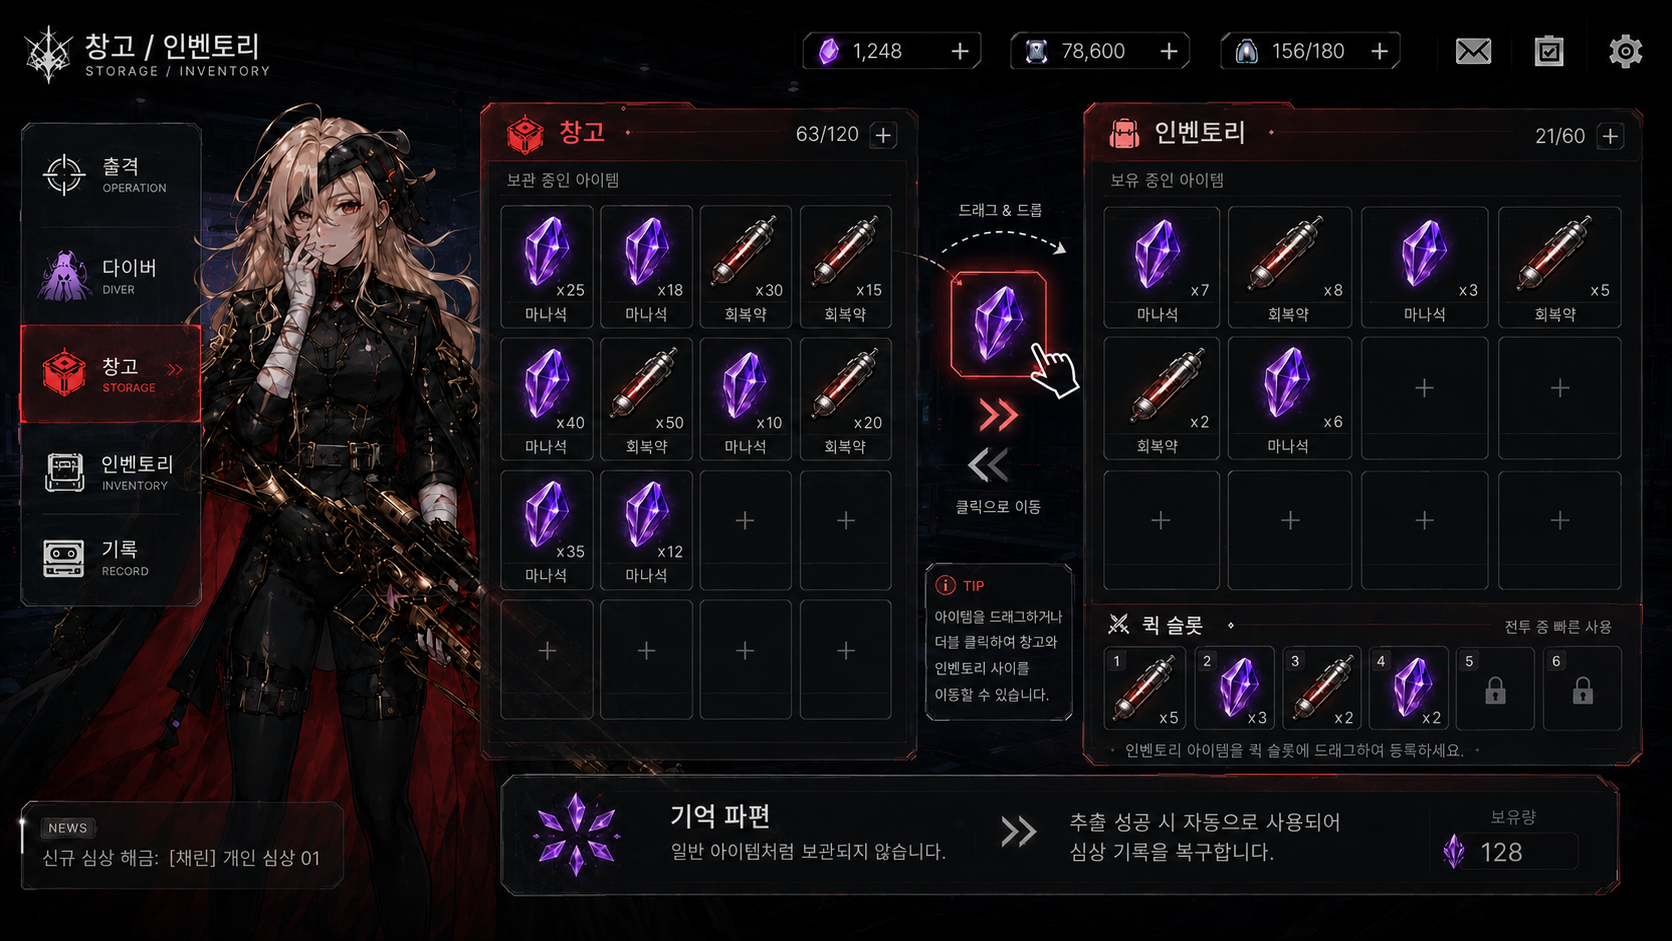
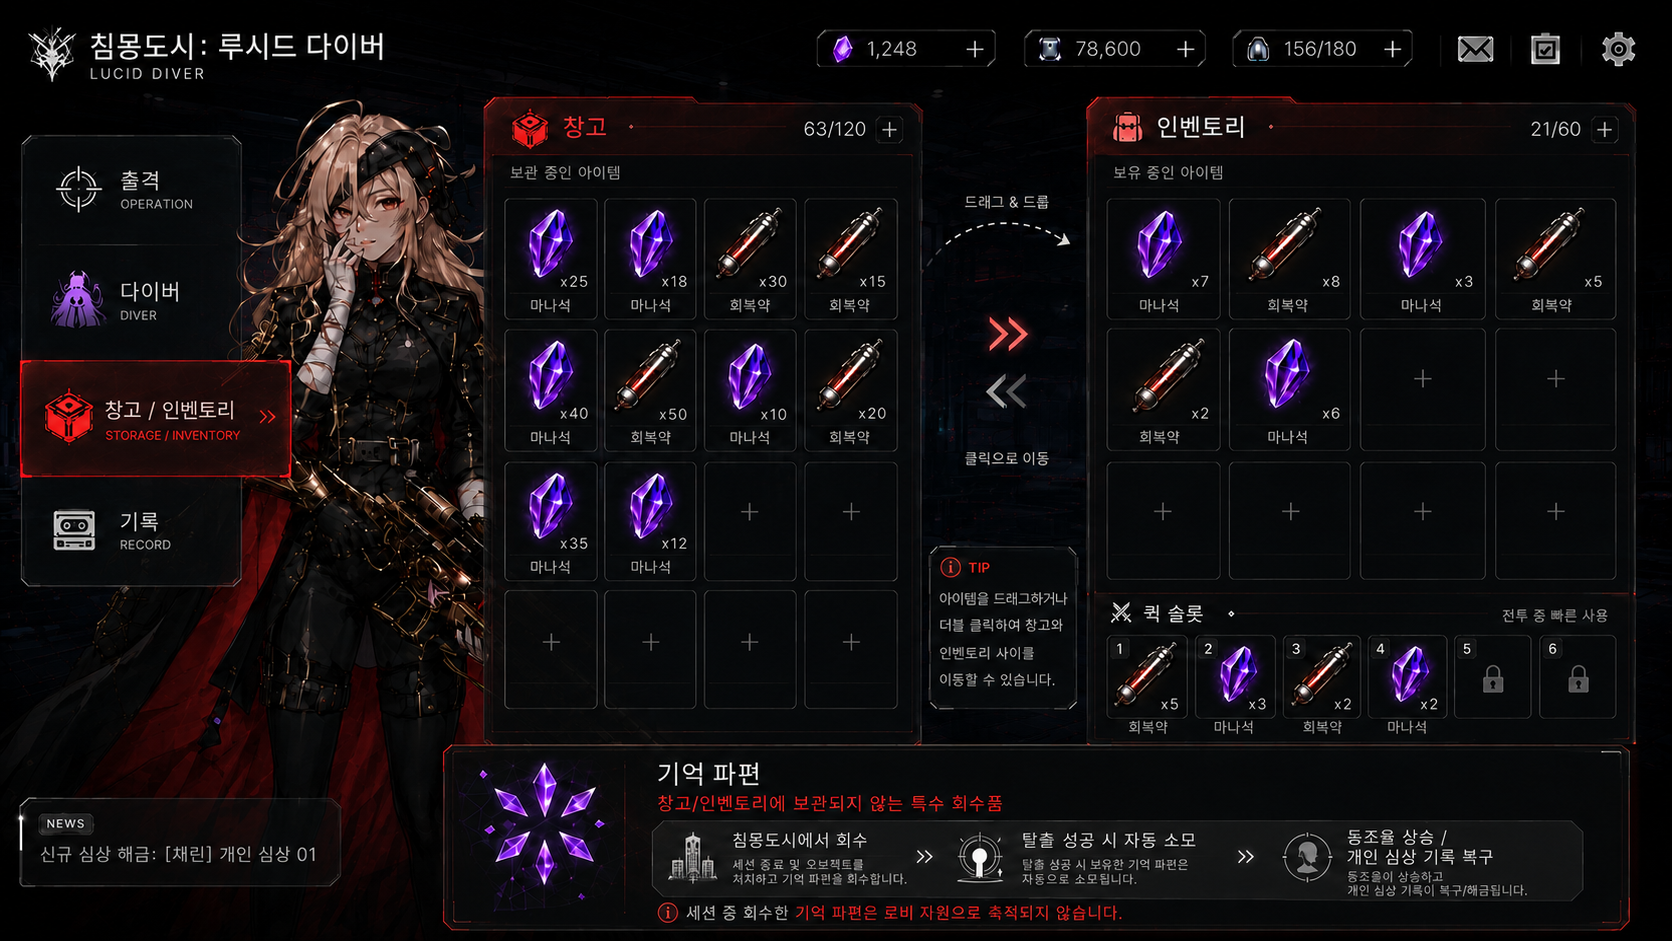
로비_허브UI플로우명세 이미지 및 인벤토리/창고 세부사항 업데이트

diff --git a/01.기획_문서/검수전/서브컬처_기획/프로토타입_로비_허브_UI_플로우_명세.md b/01.기획_문서/검수전/서브컬처_기획/프로토타입_로비_허브_UI_플로우_명세.md
@@ -13,7 +13,7 @@
 ## 2. 로비 허브의 역할
 프로토타입 내에서 로비 허브는 다음 세 가지의 최소 목적을 달성하기 위해 필요합니다.
 - **출격 허브**: 플레이어가 침몽도시 위험 세션에 진입하는 입구 역할을 수행합니다.
-- **서브컬처 감상 허브**: 캐릭터의 동조율 단계를 파악하고, 해금된 개인 심상 기록을 감상하며, 결과에 따른 대사 변화를 통해 캐릭터와의 정서적 연대를 확인합니다. 이때 기억 파편은 창고에 보관되는 회수품이 아니라, 탈출 성공 시 메인 다이버의 개인 심상 기록 복구에 자동 사용되는 서사 자원으로 처리합니다.
+- **서브컬처 감상 허브**: 캐릭터의 동조율 단계를 파악하고, 해금된 개인 심상 기록을 감상하며, 결과에 따른 대사 변화를 통해 캐릭터와의 정서적 연대를 확인합니다. 이때 기억 파편은 창고에 전혀 보관되지 않으며, 탈출 결과 화면에서 즉시 전량 소모되어 동조율(호감도)을 상승시키고 레벨업 시 심상 기록을 해금하는 정산 자원으로 처리됩니다.
 - **익스트랙션 보상 / 출격 준비 허브**: 세션에서 회수한 마나석, 회복약 등의 일반 회수품을 창고에 보관하고, 다음 출격 시 제한된 소지 슬롯에 장착하여 사용할 수 있도록 준비하는 역할을 수행합니다.
 
 ## 3. 최종 프로토타입 로비 기능 범위
@@ -34,7 +34,7 @@
 창고 / 인벤토리는 익스트랙션 세션에서 회수한 일반 회수품을 보관하고, 다음 출격에 사용할 소모품을 준비하는 최소 기능 화면입니다.
 - **보관 기물 확인**: 세션에서 회수하여 현재 창고에 저장된 일반 회수품(마나석, 회복약)의 수량을 확인합니다.
 - **소지품 지정**: 다음 출격에 가져갈 소모품 슬롯 2개(equippedItemSlot1, equippedItemSlot2)를 설정합니다.
-- **기억 파편 처리**: 기억 파편은 창고에 누적 저장되는 일반 아이템이 아니라, 탈출 성공 시 자동으로 메인 다이버의 개인 심상 기록 복구에 사용되는 서사 자원으로 처리되어 창고 보관 리스트에서 제외됩니다.
+- **기억 파편 제외**: 기억 파편은 창고/인벤토리에 보관되거나 화면에 노출되지 않으며, 결과 화면에서 즉시 소모/처리되므로 창고 보관 리스트에서 완전히 제외됩니다.
 
 ## 4. 제외 범위
 본 프로토타입에서는 핵심 루프의 신속한 검증을 위해 아래의 확장 기능들을 전면 제외합니다.
@@ -115,8 +115,8 @@ flowchart TD
 - **소비 기물 퀵 슬롯 장착**:
   - 인벤토리에 보유 중인 소비 기물(회복약, 마나석 등)을 하단의 퀵 슬롯(1~4번 활성화, 5~6번 프로토타입 잠금)으로 드래그하여 배치함으로써 출격 준비 상태를 셋업합니다.
   - 퀵 슬롯에 주입된 정보는 다음 세션 진입 시 플레이어 HUD 퀵슬롯 데이터와 그대로 연동되어 인게임에서 즉시 단축키로 사용됩니다.
-- **기억 파편 자원 분리 노출**:
-  - 기억 파편은 일반 보관 슬롯을 차지하지 않고 화면 하단에 별도 자원 보유량(예: 보유량 `128`)으로 전용 노출되어, 익스트랙션 일반 아이템과 서브컬처 서사 자원의 시각적 구분을 명확히 해줍니다.
+- **기억 파편의 창고 노출 제외**:
+  - 기억 파편은 결과 화면에서 직접 소모/정산되는 휘발성 정산 자원이므로 창고 및 인벤토리 슬롯 영역에서는 완전 제외됩니다. (※ UI 시안 상의 하단 팁 영역 등은 단순 가이드이며, 실제 보관 및 관리는 창고 화면을 거치지 않습니다.)
 
 ## 9. 출격 준비 화면 구조
 출격 진입 전 최종적으로 캐릭터 정보와 장착 소모품 현황을 점검하고 세션으로 나가는 중간 허브 브릿지 화면입니다.
@@ -140,11 +140,11 @@ flowchart TD
 
 ## 11. 성공 / 실패 / 미해금 상태별 화면 차이
 
-| 상태 구분 | 세션 요건 | 기억 파편 처리 | 일반 회수품 처리 | 동조율 변화 | 심상 기록 해금 여부 | 로비 알림(NEW) |
+| 상태 구분 | 세션 요건 | 기억 파편 처리 | 일반 회수품 처리 | 동조율(호감도) 변화 | 심상 기록 해금 여부 | 로비 알림(NEW) |
 | :--- | :--- | :--- | :--- | :---: | :---: | :---: |
-| **경우 1. 성공적 귀환** | 탈출 성공 및 파편 1개 이상 | 시나리오 복구 자동 소모 | 마나석/회복약 창고 누적 저장 | Lv. 상승 (+1) | 기록 01 해금 (`true`) | 다이버 메뉴 활성화 |
-| **경우 2. 일반 귀환** | 탈출 성공 및 파편 0개 | 처리 없음 (0개) | 마나석/회복약 창고 누적 저장 | 변동 없음 | 해금 실패 (`false`) | 비활성화 |
-| **경우 3. 강제 각성** | 세션 내 패배 / 사망 | 파편 전체 유실 | 획득 회수품 전체 유실 | 변동 없음 | 해금 실패 (`false`) | 비활성화 |
+| **경우 1. 성공적 귀환** | 탈출 성공 및 파편 1개 이상 | 결과 화면 즉시 소모 (획득수만큼) | 마나석/회복약 창고 누적 저장 | 획득수만큼 동조율 상승 (레벨업 가능) | 레벨업 시 신규 기록 해금 (`true`) | 다이버 메뉴 활성화 |
+| **경우 2. 일반 귀환** | 탈출 성공 및 파편 0개 | 소모 없음 (0개) | 마나석/회복약 창고 누적 저장 | 변동 없음 | 해금 없음 (`false`) | 비활성화 |
+| **경우 3. 강제 각성** | 세션 내 패배 / 사망 | 파편 전체 유실 (소모 X) | 획득 회수품 전체 유실 | 변동 없음 (동조율 상승 X) | 해금 없음 (`false`) | 비활성화 |
 
 ## 12. UI 요소별 변수 연결표
 
@@ -169,7 +169,7 @@ flowchart TD
 - **아이템 사양**: 일반 소모품 2종 (마나석 1종, 회복약 1종) 한정 구현
 - **정산 시스템**: 탈출 성공 시 획득한 소모품을 창고 변수(`stored~Count`)에 누적 가산 처리 및 결과창 노출
 - **장착 시스템**: 창고 화면 또는 출격 준비 화면에서 소지품 슬롯 2개 표시 및 세션 가져가기 지원
-- **기억 파편 처리**: 창고에 영구 저장하지 않으며, 탈출 성공 즉시 소모하여 동조율 상승 및 기록 해금 플래그 활성화
+- **기억 파편 처리**: 창고에 보관하지 않으며, 탈출 성공 시 결과 화면에서 즉시 전량 소모하여 동조율(호감도) 경험치를 올리고 레벨업 시 심상 기록 해금
 - **아웃게임 기본**: 관제실 로비 메인, 다이버 상세, 창고 화면, 결과창 구성 및 성공/실패별 대사 연계
 
 ### 13.2 P0.5 선택 구현
@@ -184,16 +184,16 @@ flowchart TD
 
 ## 14. 시스템 / 개발 전달 메모
 - 본 문서에서 정의하는 창고/인벤토리는 복잡한 파밍 RPG의 인벤토리가 아니라, **익스트랙션 루프를 최소한으로 체감시키기 위한 회수품 보관 및 다음 출격 준비 화면**입니다.
-- **기억 파편**은 창고에 보관되는 일반 아이템이 아니라, 서브컬처 애착 루프를 작동시키는 **기록 복구용 단일 서사 자원**으로 처리합니다.
+- **기억 파편**은 창고에 보관하지 않으며, 탈출 성공 시 결과 화면에서 즉시 소모(사망 시 소모 없이 유실)되어 동조율 상승 및 기록 해금으로 이어지는 정산용 자원입니다.
 - 반면 **마나석과 회복약**은 창고에 보관되고 다음 출격에 가져갈 수 있는 **일반 회수품**으로 처리하여, 플레이어가 *"이번 세션에서 살아 돌아온 보상이 다음 세션 준비로 이어진다"*는 익스트랙션의 핵심 감각을 고스란히 느낄 수 있게 지원합니다.
 - 개발 편의상 단독 로비 씬의 구성 비용이 클 경우 결과창 씬 전환 후 카메라를 고정하여 나타내는 캔버스 레이어 방식의 **간이 로비 UI 패널** 구조로 우회 구현이 가능합니다.
 
 ## 15. 핵심 요약
 프로토타입 로비는 출격, 다이버, 창고의 3개 기능만으로 구성되는 최소 허브입니다.
 
-기억 파편은 창고에 저장되는 일반 아이템이 아니라, 탈출 성공 시 메인 다이버의 개인 심상 기록을 복구하는 데 자동 사용되는 서사 자원입니다. 반면 마나석과 회복약은 세션에서 회수해 창고에 보관하고 다음 출격에 가져갈 수 있는 일반 회수품입니다.
+기억 파편은 창고에 보관되지 않으며, 결과 화면에서 즉시 소모되어 동조율(호감도) 경험치를 올리고 레벨업 시 새로운 심상 기록을 열어주는 정산용 자원입니다. 반면 마나석과 회복약은 세션에서 회수해 창고에 보관하고 다음 출격에 가져갈 수 있는 일반 회수품입니다.
 
-이를 통해 본 프로토타입은 **`기억 파편 → 동조율 / 심상 기록`으로 이어지는 서브컬처 애착 루프**와, **`일반 회수품 → 창고 보관 → 다음 출격 준비`로 이어지는 익스트랙션 루프**를 최소 구조 하에서 견고하게 동시 검증합니다.
+이를 통해 본 프로토타입은 **`기억 파편 → 결과창 즉시 소모 → 동조율 상승 → 레벨업 시 심상 기록 해금`으로 이어지는 서브컬처 애착 루프**와, **`일반 회수품 → 창고 보관 → 다음 출격 준비`로 이어지는 익스트랙션 루프**를 최소 구조 하에서 견고하게 동시 검증합니다.
 
 ---
 
@@ -207,3 +207,4 @@ flowchart TD
 | 2026.06.17 | v1.13 | - 마크다운 프리뷰 시 이미지 출력 오류 수정: 파일명 내 공백/괄호 제거 및 파일 리네임 연동 | 장수영 |
 | 2026.06.17 | v1.14 | - 탈출 실패(강제 각성) 결과창 텍스트 와이어프레임을 신규 생성한 GUI 이미지 시안(UI_예시_이미지_6.png)으로 대체 반영 | 장수영 |
 | 2026.06.17 | v1.15 | - 창고/인벤토리 와이어프레임 이미지 교체(UI_예시_이미지_7.png) 및 드래그앤드롭/더블클릭 전송 사양 구체화 | 장수영 |
+| 2026.06.17 | v1.16 | - 창고/인벤토리 내 기억 파편 관련 기획 삭제 및 결과 정산 단계 즉시 소모(사망 시 유실) 및 레벨업 시 심상 기록 개방 루프 반영 | 장수영 |
